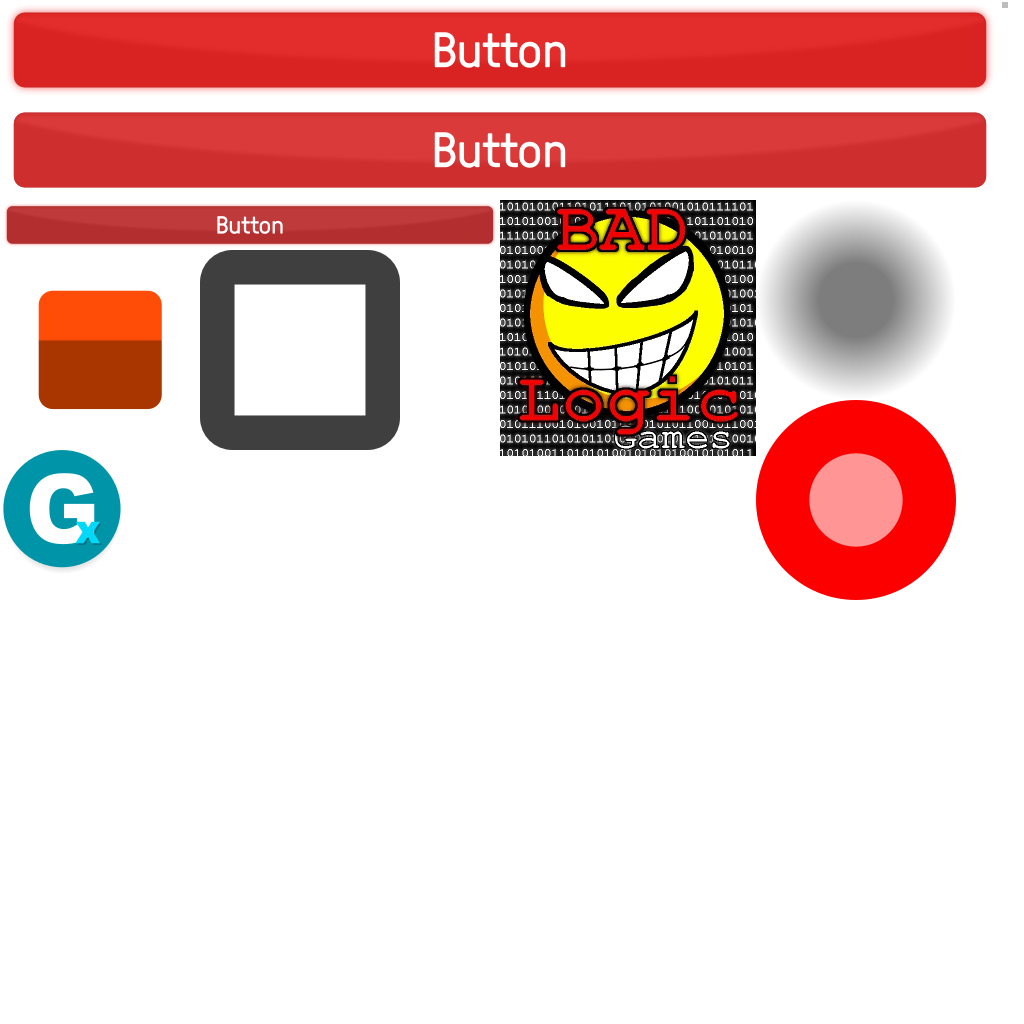
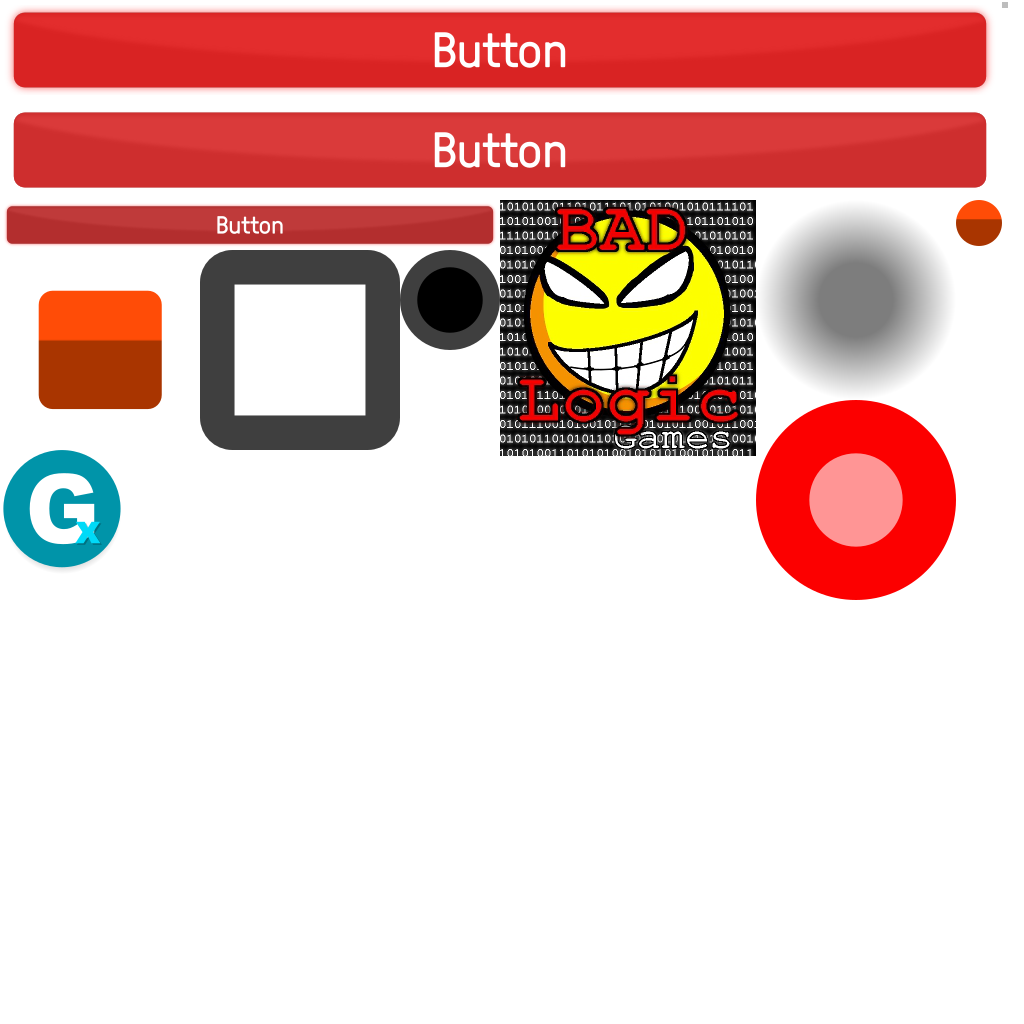
Testing out the different use cases

Changed region(s): [[0.375, 0.2188, 0.5, 0.3438], [0.9375, 0.1875, 1.0, 0.25]]

diff --git a/core/src/com/desitum/library/BuildMenuScreen.java b/core/src/com/desitum/library/BuildMenuScreen.java
@@ -11,7 +11,6 @@ import com.desitum.library.drawing.Drawing;
 import com.desitum.library.game.AssetManager;
 import com.desitum.library.game.GameScreen;
 import com.desitum.library.game_objects.GameObject;
-import com.desitum.library.logging.Log;
 import com.desitum.library.particles.ParticleBuilder;
 import com.desitum.library.view.Button;
 import com.desitum.library.view.EditText;
@@ -23,10 +22,10 @@ import com.desitum.library.view.View;
 import com.desitum.library.widgets.CircularProgressBar;
 
 /**
- * Created by kody on 12/12/15.
- * can be used by kody and people in [kody}]
+ * Created by kodyvanry on 5/15/17.
  */
-public class MenuScreen extends GameScreen {
+
+public class BuildMenuScreen extends GameScreen {
 
     public static final float SCREEN_WIDTH = 1920.0f;
     public static final float SCREEN_HEIGHT = 1080.0f;
@@ -44,21 +43,17 @@ public class MenuScreen extends GameScreen {
     public static final int CIRCULAR_PROGRESS_BAR = 11;
     public static final int PARTICLE = 12;
 
-
     private ProgressBar progressBar;
     private ProgressBar circularProgressBar;
     private SeekBar seekBar;
     private LinearLayout layout;
 
-    public MenuScreen() {
+    public BuildMenuScreen() {
         super(150, 100, SCREEN_WIDTH, SCREEN_HEIGHT, ASPECT_FILL);
 //        super(getScreenWidth(), getScreenHeight());
         setClearColor(new Color(0.5f, 0, 0.5f, 1));
 
         setupWorld();
-        Log.d(this, "Hello world");
-        Log.d(this.getClass(), "Hello world");
-        Log.d("Hello I am a muffin", "Hello world");
     }
 
     private void setupWorld() {
@@ -151,31 +146,5 @@ public class MenuScreen extends GameScreen {
                 progressBar.setProgress(1);
             }
         }).start();
-    }
-
-    @Override
-    public void show() {
-
-    }
-
-
-    @Override
-    public void pause() {
-
-    }
-
-    @Override
-    public void resume() {
-
-    }
-
-    @Override
-    public void hide() {
-
-    }
-
-    @Override
-    public void dispose() {
-
     }
 }

diff --git a/core/src/com/desitum/library/widgets/CircularProgressBar.java b/core/src/com/desitum/library/widgets/CircularProgressBar.java
@@ -1,0 +1,44 @@
+package com.desitum.library.widgets;
+
+import com.badlogic.gdx.graphics.g2d.Batch;
+import com.badlogic.gdx.utils.viewport.Viewport;
+import com.desitum.library.game.World;
+import com.desitum.library.view.LayoutConstraints;
+import com.desitum.library.view.ProgressBar;
+
+/**
+ * Created by kodyvanry on 5/15/17.
+ */
+
+public class CircularProgressBar extends ProgressBar {
+
+    public CircularProgressBar(World world) {
+        super(world);
+    }
+
+    public CircularProgressBar(World world, LayoutConstraints layoutConstraints) {
+        super(world, layoutConstraints);
+    }
+
+    @Override
+    public void onDraw(Batch batch, Viewport viewport) {
+        if (mProgressBackgroundDrawable != null) {
+            mProgressBackgroundDrawable.draw(
+                    batch,
+                    getX(),
+                    getY() + getHeight() / 2 - mProgressBarHeight / 2,
+                    getWidth(),
+                    mProgressBarHeight
+            );
+        }
+        if (mProgressDrawable != null) {
+            mProgressDrawable.draw(
+                    batch,
+                    getX() + (getHeight() - (mProgressBarHeight * 0.46f)) / 2,
+                    getY() + getHeight() / 2 - (mProgressBarHeight * 0.46f) / 2,
+                    (getWidth() - (getHeight() - (mProgressBarHeight * 0.46f))) * mProgress,
+                    mProgressBarHeight * 0.46f
+            );
+        }
+    }
+}

diff --git a/desktop/src/com/desitum/library/desktop/DesktopLauncher.java b/desktop/src/com/desitum/library/desktop/DesktopLauncher.java
@@ -1,12 +1,16 @@
 package com.desitum.library.desktop;
 
+import com.badlogic.gdx.Game;
 import com.badlogic.gdx.backends.lwjgl.LwjglApplication;
 import com.badlogic.gdx.backends.lwjgl.LwjglApplicationConfiguration;
+import com.desitum.library.BuildMenu;
 import com.desitum.library.LibraryTest;
+import com.desitum.library.game.AssetManager;
 
 public class DesktopLauncher {
     public static void main(String[] arg) {
         LwjglApplicationConfiguration config = new LwjglApplicationConfiguration();
+//        Game buildMenu = new BuildMenu();
         new LwjglApplication(new LibraryTest(), config);
     }
 }

diff --git a/core/src/com/desitum/library/game/AssetManager.java b/core/src/com/desitum/library/game/AssetManager.java
@@ -1,5 +1,7 @@
 package com.desitum.library.game;
 
+import com.badlogic.gdx.Gdx;
+import com.badlogic.gdx.files.FileHandle;
 import com.badlogic.gdx.graphics.Texture;
 import com.badlogic.gdx.graphics.g2d.NinePatch;
 import com.badlogic.gdx.graphics.g2d.TextureRegion;
@@ -23,6 +25,7 @@ public class AssetManager {
     private AssetManager() {
         mTextureList = new ArrayList<Texture>();
         mDrawableMap = new HashMap<Integer, Drawable>();
+//        new Texture(new FileHandle(Gdx.files.internal()))
     }
 
     public static AssetManager getInstance() {

diff --git a/core/src/com/desitum/library/BuildMenu.java b/core/src/com/desitum/library/BuildMenu.java
@@ -1,0 +1,28 @@
+package com.desitum.library;
+
+import com.badlogic.gdx.Game;
+import com.badlogic.gdx.Screen;
+
+/**
+ * Created by kodyvanry on 5/15/17.
+ */
+
+public class BuildMenu extends Game {
+    @Override
+    public void create() {
+        Screen testMenuScreen = new BuildMenuScreen();
+        this.setScreen(testMenuScreen);
+    }
+
+    @Override
+    public void render() {
+        super.render();
+    }
+
+    @Override
+    public void dispose() {
+        super.dispose();
+
+        getScreen().dispose();
+    }
+}

diff --git a/core/src/com/desitum/library/view/ProgressBar.java b/core/src/com/desitum/library/view/ProgressBar.java
@@ -13,10 +13,10 @@ public class ProgressBar extends View {
 
     protected static final float DEFAULT_PROGRESS_BAR_HEIGHT = 50;
 
-    private float mProgress;
-    private float mProgressBarHeight;
-    private Drawable mProgressDrawable;
-    private Drawable mProgressBackgroundDrawable;
+    protected float mProgress;
+    protected float mProgressBarHeight;
+    protected Drawable mProgressDrawable;
+    protected Drawable mProgressBackgroundDrawable;
 
     public ProgressBar(World world) {
         this(world, null);
